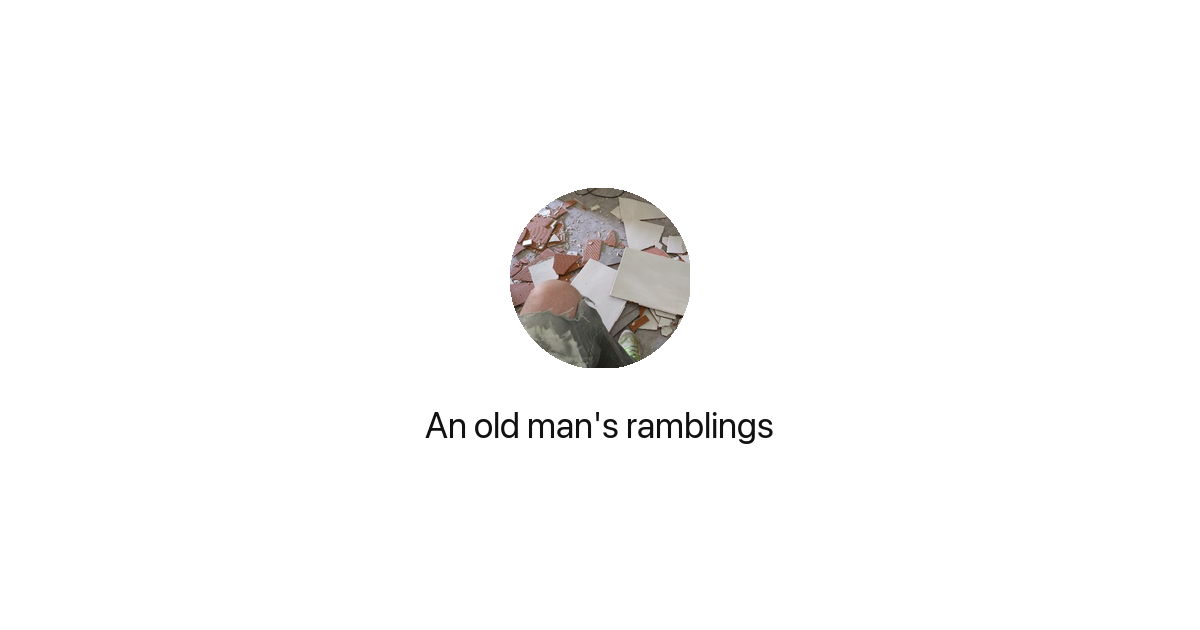
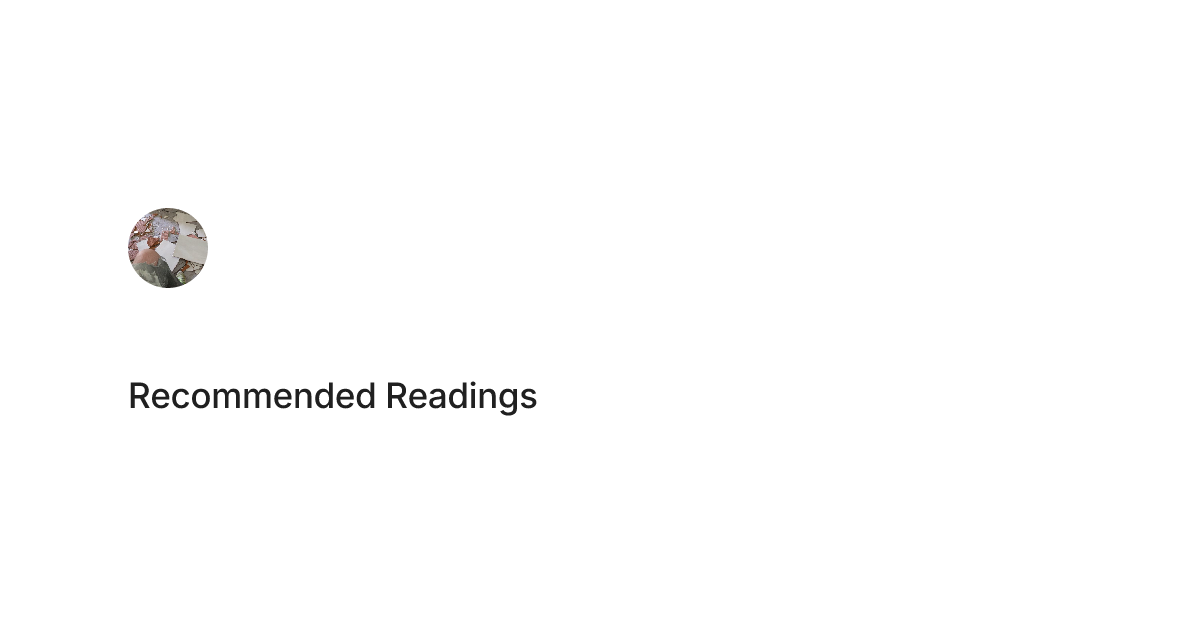
Add light and dark OG images titled Recommended Readings.

Changed region(s): [[0.4008, 0.3016, 0.5858, 0.6032], [0.0925, 0.6032, 0.6475, 0.7238], [0.0925, 0.3317, 0.185, 0.4524]]

diff --git a/src/utils/seo.ts b/src/utils/seo.ts
@@ -3,10 +3,12 @@ export const seo = ({
   description,
   keywords,
   image,
+  imageDark,
 }: {
   title: string
   description?: string
   image?: string
+  imageDark?: string
   keywords?: string
 }) => {
   const tags = [
@@ -20,9 +22,27 @@ export const seo = ({
     { name: 'og:description', content: description },
     ...(image
       ? [
-          { name: 'twitter:image', content: image },
           { name: 'twitter:card', content: 'summary_large_image' },
+          { name: 'twitter:image', content: image },
+          ...(imageDark
+            ? [
+                {
+                  name: 'twitter:image',
+                  content: imageDark,
+                  media: '(prefers-color-scheme: dark)',
+                },
+              ]
+            : []),
           { name: 'og:image', content: image },
+          ...(imageDark
+            ? [
+                {
+                  name: 'og:image',
+                  content: imageDark,
+                  media: '(prefers-color-scheme: dark)',
+                },
+              ]
+            : []),
           { name: 'og:image:width', content: '1200' },
           { name: 'og:image:height', content: '630' },
         ]

diff --git a/src/routes/__root.tsx b/src/routes/__root.tsx
@@ -25,6 +25,7 @@ export const Route = createRootRoute({
         title: 'Recommended Readings · Old Man Ramblings',
         description: 'Ramblings by old man Mario Zechner',
         image: 'https://recommendedreadings.com/og.png',
+        imageDark: 'https://recommendedreadings.com/og-dark.png',
       }),
     ],
     links: [
